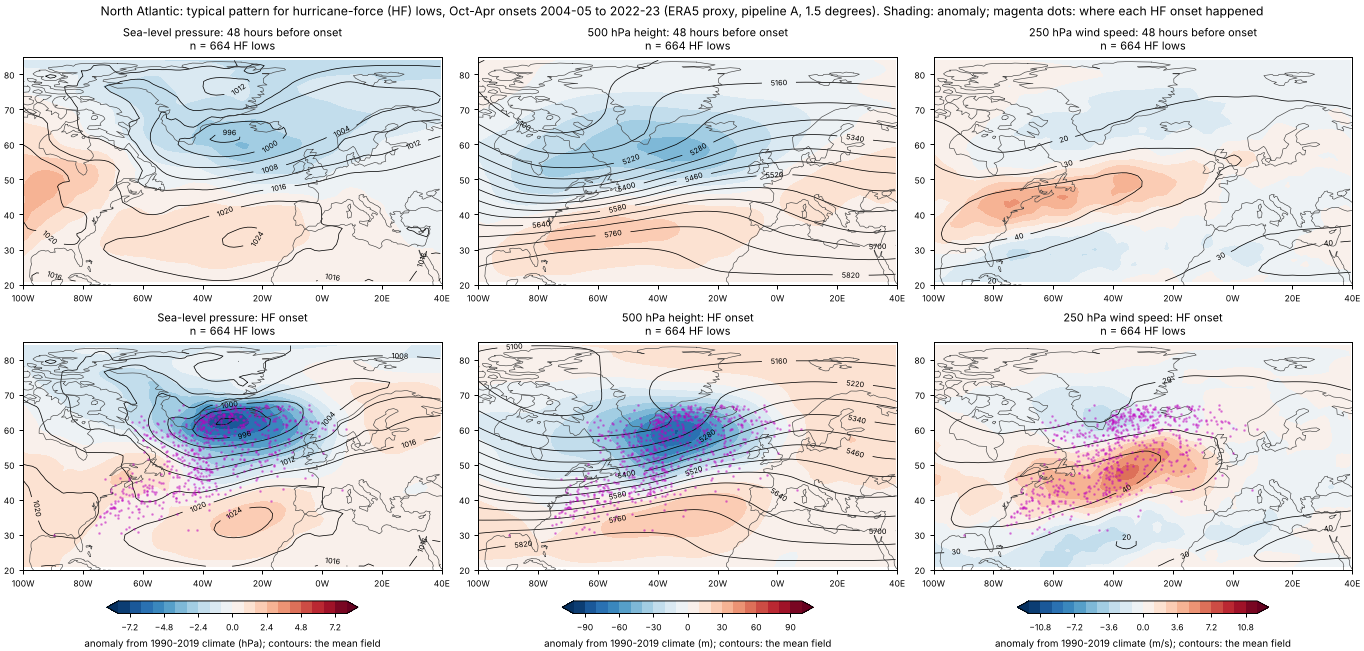
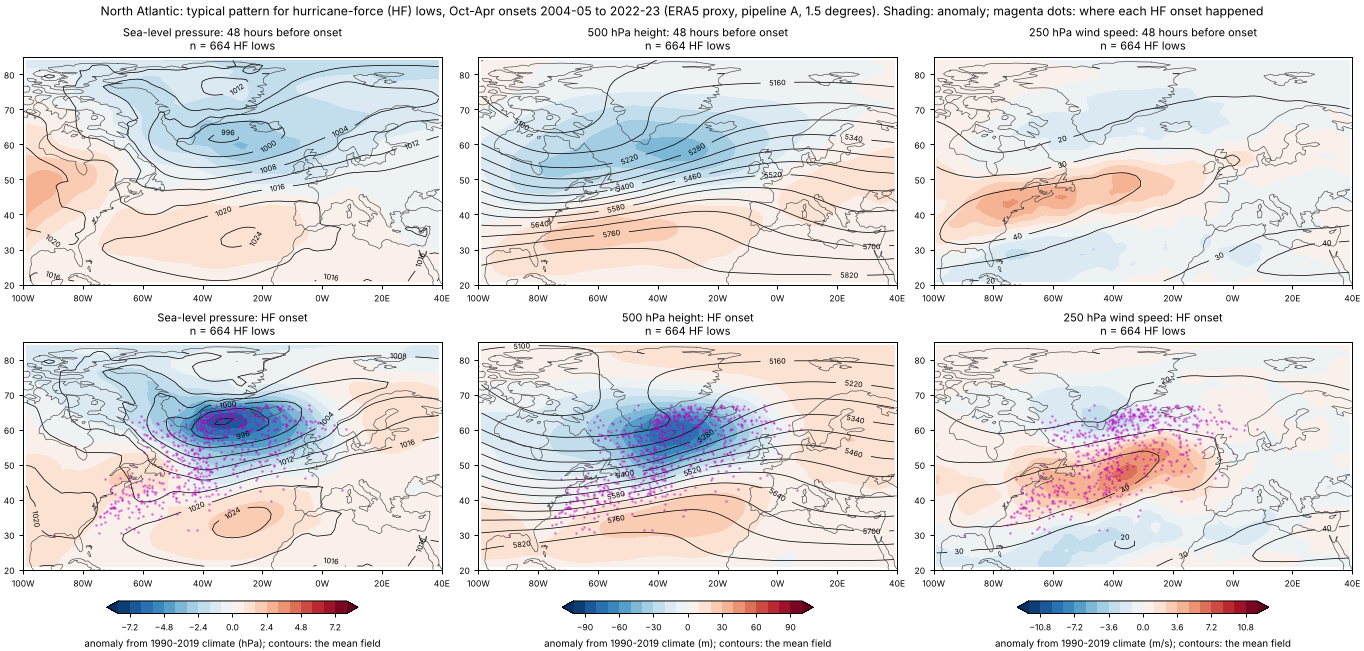
Basin composites: snap longitude axis to grid, add VERIFICATION.md
Verifier recomputed counts, onset latitudes, MSL and Atlantic Z500 fields and anomalies (all match); ws250 and 48 h fields not recomputed. 38.72 GB pull.

Claude-Session: https://claude.ai/code/session_017vqwtSSG2tPDD3JVA6yNka

diff --git a/research/era5/hf_basin_composites/figs.py b/research/era5/hf_basin_composites/figs.py
@@ -17,7 +17,7 @@ IDX = {n: i for i, n in enumerate(["msl", "z500", "ws250", "a_msl", "a_z500", "a
 
 
 def sub(a, lon0, lon1, lat0, lat1):
-    lons = np.arange(lon0, lon1 + 0.01, 1.5)
+    lons = np.arange(np.ceil(lon0 / 1.5) * 1.5, lon1 + 0.01, 1.5)
     ci = np.rint((lons % 360) / 1.5).astype(int) % 240
     la = (LAT >= lat0) & (LAT <= lat1)
     return a[np.ix_(la, ci)], lons, LAT[la]

diff --git a/research/era5/hf_basin_composites/VERIFICATION.md b/research/era5/hf_basin_composites/VERIFICATION.md
@@ -1,0 +1,11 @@
+# Verification (basin composites, pipeline A ERA5 proxy, descriptive)
+
+A fresh agent recomputed from the WeatherBench2 stores and the committed files only (no notes read, nothing changed in the repo).
+
+Recomputed and matching: onset counts 664 Atlantic / 559 Pacific; onset latitude mean 53.5N / 43.4N and 10th-90th percentiles 39.8-64.2N / 35.2-52.2N; onset MSL mean field and anomaly, both basins (max difference 6e-5 hPa); Atlantic onset Z500 field and anomaly (max difference 2e-4 m); deepest Atlantic Z500 anomaly (-80.2 m, 60.0N); deepest MSL anomalies (-6.9 hPa at 63.0N Atlantic, -2.8 hPa at 42.0N Pacific); climatological 250 hPa mean speed at 45N 30W, 1 Jan 12 UTC (37.38 m/s) against the speed of the mean vector (28.76 m/s), which is the bias that made the first wind-anomaly shading too high.
+
+Found and fixed: the plotted longitude axis was not on the 1.5-degree grid, so the maps and the quoted longitudes were up to 0.5 degrees off. `figs.py` now snaps the axis to grid points; values are unchanged (positions moved 0.5 degrees; Pacific Z500 field minimum 5110.0 m instead of 5109.3 m because the window edge moved).
+
+Not independently recomputed: 250 hPa wind-speed mean and anomaly fields (about 19 GB of u, v) including the +6.4 / +5.4 m/s maxima and the 47.5 / 65.1 m/s field maxima; all 48-hour-before fields; Pacific Z500 and the Z500 field minima; the claim that the first wind-anomaly version showed +7 to +15 m/s; the 1,332 chunks / 38.72 GB; whether the PNGs show these fields (checked by eye only).
+
+Known issue: the wind250 anomaly rows of the storm-centred composites (PR 146, and the site figures built from it) use the biased reference (speed of the climatological mean vector); they are not redone.

diff --git a/research/era5/hf_basin_composites/README.md b/research/era5/hf_basin_composites/README.md
@@ -15,7 +15,7 @@ Pull: 1,332 chunks, 38.72 GB (sized 38.7 GB by HEAD request; WeatherBench2 u, v,
 The wind-speed anomaly in the storm-centred composites (PR 146, `hf_env_composites/extract.py`) is |V| minus |V_clim| with V_clim the climatological mean vector. That is biased high everywhere (at 45N 30W on 1 January 12 UTC the climatological mean speed is 37.4 m/s but the speed of the mean vector is 28.8 m/s). The first version of these maps used the same definition and showed +7 to +15 m/s over whole basins. Here the anomaly is the mean |V| minus the climatological mean |V| (WeatherBench2 `wind_speed`, `clim_ws.py`) at each event's own day and hour. The PR 146 speed-anomaly panels (and the two 250 hPa wind figures on the site Composites page built from them) carry the old, biased shading; the mean wind-speed numbers in their captions are not affected. Not yet redone.
 
 ## Limits
-Population and times are those of PR 146 (WeatherBench2 ends 2023-01-09; later seasons not covered). 1.5 degree grid. The 48 h maps use all 1,223 lows, unlike PR 146's 48 h column (storms that already had a track). Anomaly is vs 1990-2019, so a warming trend adds a little (the global mean 500 hPa height anomaly over 2004-23 is about +13 m).
+Population and times are those of PR 146 (WeatherBench2 ends 2023-01-09; later seasons not covered). 1.5 degree grid. The 48 h maps use all 1,223 lows, unlike PR 146's 48 h column (storms that already had a track). Anomaly is vs 1990-2019, so a warming trend adds a little.
 
 ## Verification
 See `VERIFICATION.md`.
